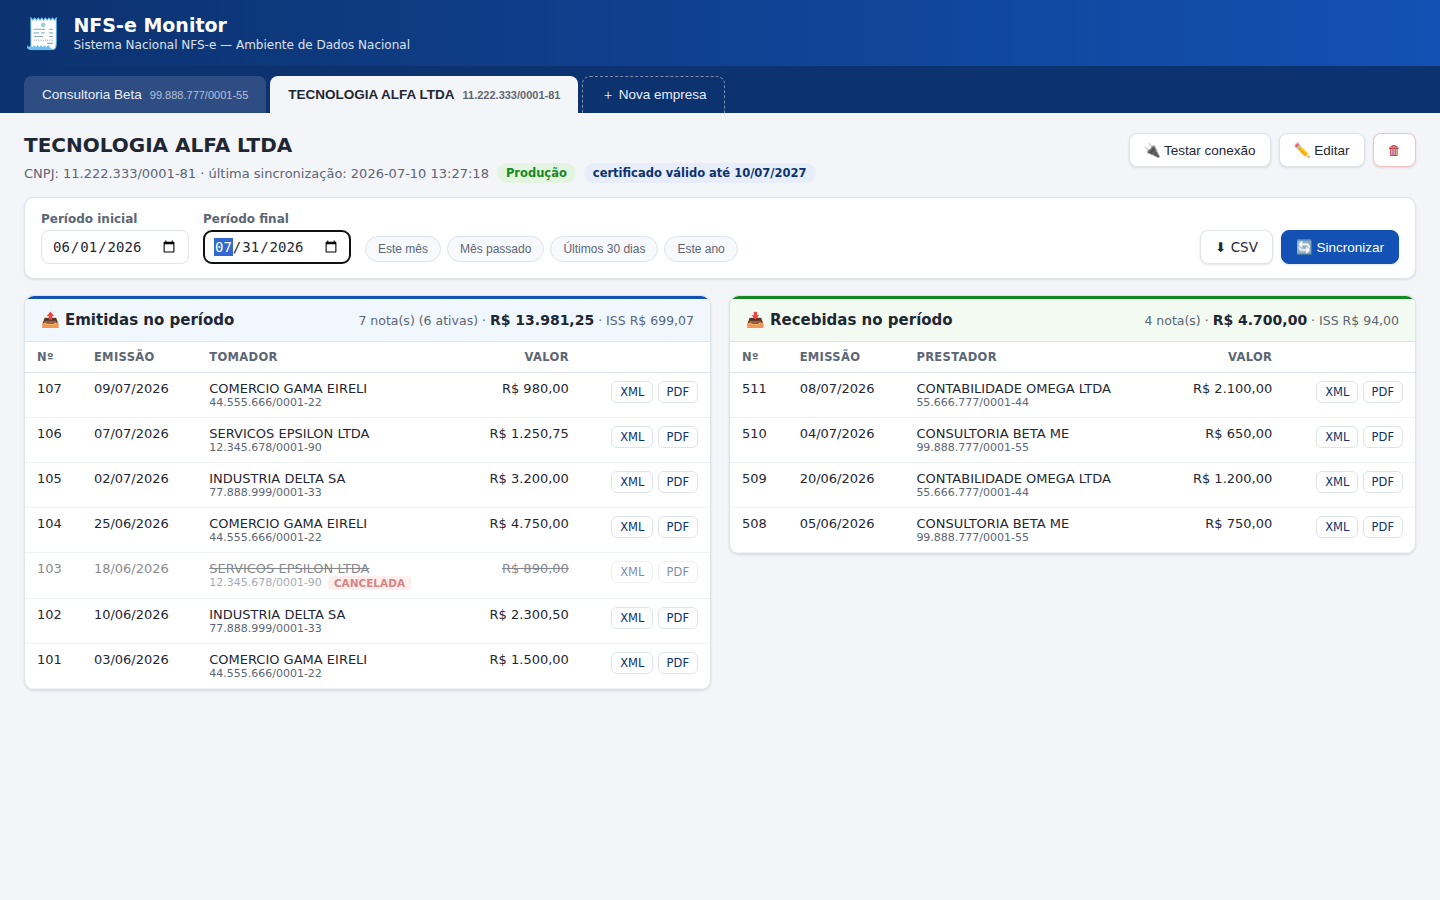
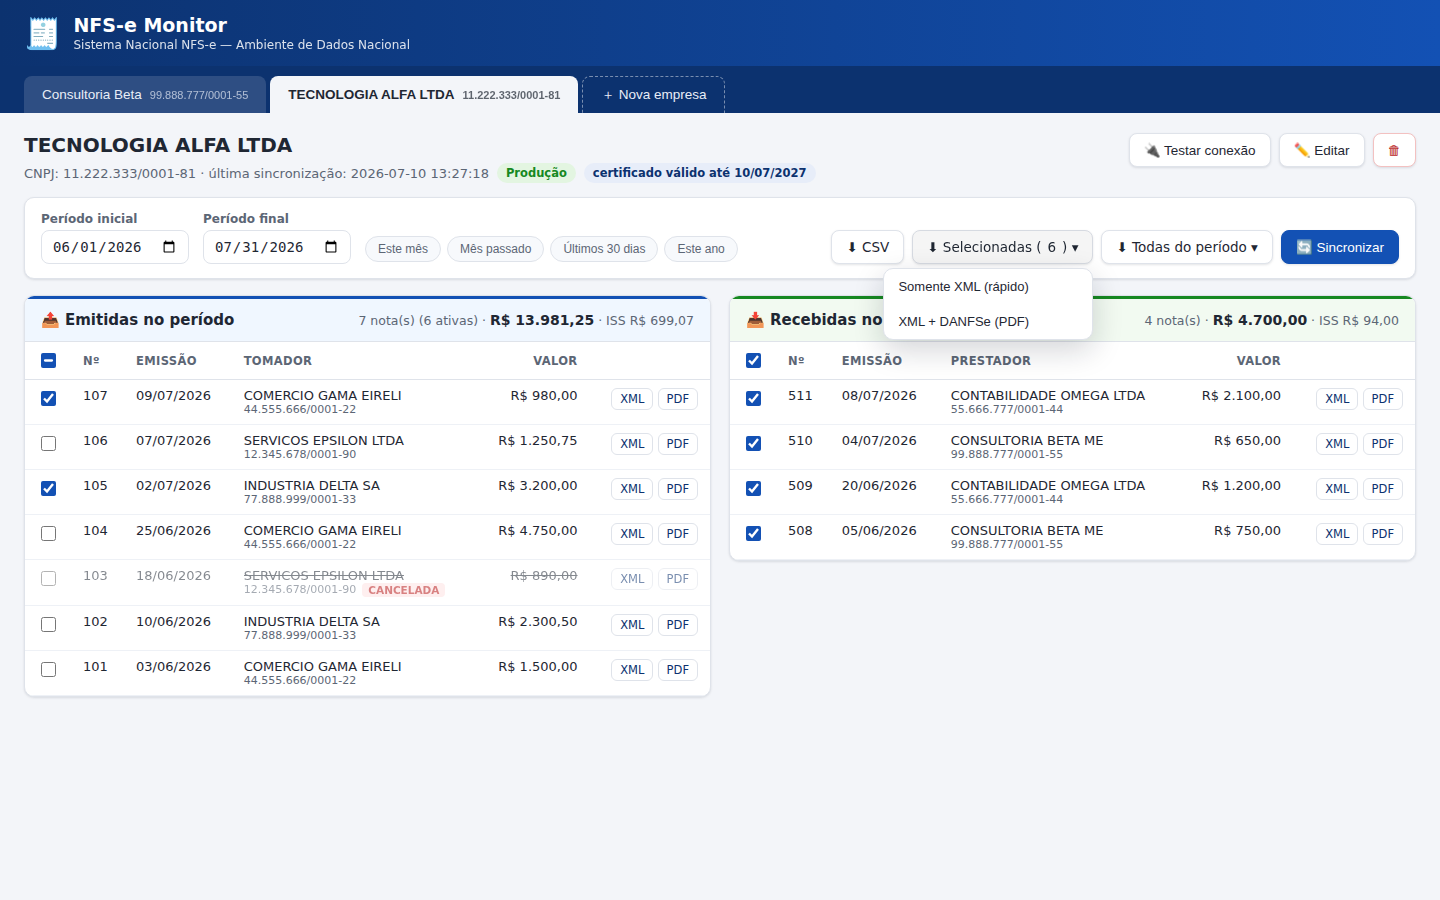
Adiciona seleção de notas e download em lote (ZIP)
- Caixas de seleção por nota e por coluna (com estado parcial no cabeçalho)
- Botão "Selecionadas (n)" e botão "Todas do período", cada um com opção
  de baixar somente XML ou XML + DANFSe (PDF)
- Novo endpoint POST /api/empresas/{id}/notas/download que gera ZIP
  organizado em pastas Emitidas/Recebidas; DANFSes com cache local e
  falhas individuais relatadas em AVISOS.txt sem abortar o lote
- Cobertura no teste e2e (ZIP por chaves e por período, XML e XML+PDF)

Claude-Session: https://claude.ai/code/session_01U5JoGidbCUZph5nUjprQZ1

diff --git a/static/app.js b/static/app.js
@@ -6,6 +6,7 @@ let empresaAtual = null;
 let notasCache = { emitidas: [], recebidas: [] };
 let pollTimer = null;
 let editando = false;
+const selecionadas = new Set(); // chaves de acesso marcadas nas duas colunas
 
 const $ = (id) => document.getElementById(id);
 const fmtBRL = new Intl.NumberFormat("pt-BR", { style: "currency", currency: "BRL" });
@@ -145,8 +146,10 @@ async function carregarNotas() {
   try {
     const dados = await api(`/api/empresas/${emp.id}/notas?inicio=${ini}&fim=${fim}`);
     notasCache = dados;
+    selecionadas.clear();
     renderColuna("emitidas", dados.emitidas, dados.totais.emitidas);
     renderColuna("recebidas", dados.recebidas, dados.totais.recebidas);
+    atualizarSelecao();
   } catch (e) {
     toast(e.message, "erro");
   }
@@ -173,6 +176,8 @@ function renderColuna(qual, notas, totais) {
     if (n.papel === "intermediada") tag += ' <span class="tag-situacao tag-intermediada">INTERMEDIADA</span>';
     if (n.situacao !== "ATIVA") tr.className = "nota-cancelada";
     tr.innerHTML =
+      `<td class="td-sel"><input type="checkbox" class="sel-nota" data-coluna="${qual}" data-chave="${esc(n.chave_acesso)}"` +
+      `${selecionadas.has(n.chave_acesso) ? " checked" : ""} onclick="event.stopPropagation()" onchange="marcarNota(this)"></td>` +
       `<td>${esc(n.numero || "—")}</td>` +
       `<td>${dataBR(n.data_emissao)}</td>` +
       `<td class="td-contraparte"><span class="contraparte-nome">${esc(contraNome)}</span>` +
@@ -219,6 +224,74 @@ async function abrirDetalheNota(n) {
     `<a class="btn" href="/api/empresas/${emp.id}/notas/${n.chave_acesso}/danfse" target="_blank">⬇ DANFSe (PDF)</a>` +
     "</div>";
   $("modal-nota").classList.remove("oculto");
+}
+
+/* ------------------------------------------------ seleção e download em lote */
+
+function marcarNota(caixa) {
+  if (caixa.checked) selecionadas.add(caixa.dataset.chave);
+  else selecionadas.delete(caixa.dataset.chave);
+  atualizarSelecao();
+}
+
+function selecionarColuna(qual, marcado) {
+  document.querySelectorAll(`#lista-${qual} .sel-nota`).forEach((c) => {
+    c.checked = marcado;
+    if (marcado) selecionadas.add(c.dataset.chave);
+    else selecionadas.delete(c.dataset.chave);
+  });
+  atualizarSelecao();
+}
+
+function atualizarSelecao() {
+  $("qtd-selecionadas").textContent = selecionadas.size;
+  $("dd-selecionadas").classList.toggle("desabilitado", selecionadas.size === 0);
+  for (const qual of ["emitidas", "recebidas"]) {
+    const caixas = [...document.querySelectorAll(`#lista-${qual} .sel-nota`)];
+    const geral = $(`sel-todas-${qual}`);
+    geral.checked = caixas.length > 0 && caixas.every((c) => c.checked);
+    geral.indeterminate = caixas.some((c) => c.checked) && !geral.checked;
+  }
+}
+
+async function baixarLote(escopo, formato) {
+  document.querySelectorAll("details.dropdown").forEach((d) => (d.open = false));
+  const emp = empresa();
+  if (!emp) return;
+  const corpo = { formato };
+  if (escopo === "selecionadas") {
+    if (selecionadas.size === 0) return toast("Marque ao menos uma nota nas caixas de seleção.", "erro");
+    corpo.chaves = [...selecionadas];
+  } else {
+    corpo.inicio = $("data-inicio").value;
+    corpo.fim = $("data-fim").value;
+  }
+  toast(formato === "xml_pdf"
+    ? "Preparando ZIP (baixando DANFSes do Portal Nacional, aguarde)..."
+    : "Preparando arquivo ZIP...");
+  try {
+    const resp = await fetch(`/api/empresas/${emp.id}/notas/download`, {
+      method: "POST",
+      headers: { "Content-Type": "application/json" },
+      body: JSON.stringify(corpo),
+    });
+    if (!resp.ok) {
+      let detalhe = `Erro ${resp.status}`;
+      try { detalhe = (await resp.json()).detail || detalhe; } catch (_) {}
+      throw new Error(detalhe);
+    }
+    const nome = (resp.headers.get("Content-Disposition") || "").match(/filename="?([^";]+)/)?.[1]
+      || "notas.zip";
+    const blob = await resp.blob();
+    const a = document.createElement("a");
+    a.href = URL.createObjectURL(blob);
+    a.download = nome;
+    a.click();
+    setTimeout(() => URL.revokeObjectURL(a.href), 10000);
+    toast(`ZIP gerado: ${nome}`, "ok");
+  } catch (e) {
+    toast(e.message, "erro");
+  }
 }
 
 /* ------------------------------------------------ sincronização */
@@ -385,6 +458,11 @@ function fecharModais() {
 }
 
 document.addEventListener("keydown", (e) => { if (e.key === "Escape") fecharModais(); });
+document.addEventListener("click", (e) => {
+  document.querySelectorAll("details.dropdown[open]").forEach((d) => {
+    if (!d.contains(e.target)) d.open = false;
+  });
+});
 document.querySelectorAll(".modal-fundo").forEach((m) =>
   m.addEventListener("click", (e) => { if (e.target === m) fecharModais(); })
 );

diff --git a/static/index.html b/static/index.html
@@ -65,6 +65,20 @@
       </div>
       <div class="filtro-acoes">
         <a class="btn" id="btn-csv" href="#" title="Exportar o período para CSV (Excel)">⬇ CSV</a>
+        <details class="dropdown" id="dd-selecionadas">
+          <summary class="btn" title="Baixa as notas marcadas nas caixas de seleção">⬇ Selecionadas (<span id="qtd-selecionadas">0</span>) ▾</summary>
+          <div class="menu">
+            <button onclick="baixarLote('selecionadas','xml')">Somente XML (rápido)</button>
+            <button onclick="baixarLote('selecionadas','xml_pdf')">XML + DANFSe (PDF)</button>
+          </div>
+        </details>
+        <details class="dropdown" id="dd-todas">
+          <summary class="btn" title="Baixa todas as notas do período filtrado">⬇ Todas do período ▾</summary>
+          <div class="menu">
+            <button onclick="baixarLote('todas','xml')">Somente XML (rápido)</button>
+            <button onclick="baixarLote('todas','xml_pdf')">XML + DANFSe (PDF)</button>
+          </div>
+        </details>
         <button class="btn btn-primario" id="btn-sync" onclick="sincronizar()">🔄 Sincronizar</button>
       </div>
     </div>
@@ -80,7 +94,8 @@
         <div class="tabela-wrap">
           <table>
             <thead>
-              <tr><th>Nº</th><th>Emissão</th><th>Tomador</th><th class="th-num">Valor</th><th></th></tr>
+              <tr><th class="th-sel"><input type="checkbox" id="sel-todas-emitidas" title="Selecionar todas" onchange="selecionarColuna('emitidas', this.checked)"></th>
+                  <th>Nº</th><th>Emissão</th><th>Tomador</th><th class="th-num">Valor</th><th></th></tr>
             </thead>
             <tbody id="lista-emitidas"></tbody>
           </table>
@@ -96,7 +111,8 @@
         <div class="tabela-wrap">
           <table>
             <thead>
-              <tr><th>Nº</th><th>Emissão</th><th>Prestador</th><th class="th-num">Valor</th><th></th></tr>
+              <tr><th class="th-sel"><input type="checkbox" id="sel-todas-recebidas" title="Selecionar todas" onchange="selecionarColuna('recebidas', this.checked)"></th>
+                  <th>Nº</th><th>Emissão</th><th>Prestador</th><th class="th-num">Valor</th><th></th></tr>
             </thead>
             <tbody id="lista-recebidas"></tbody>
           </table>

diff --git a/static/style.css b/static/style.css
@@ -128,7 +128,28 @@ main { padding: 20px 24px 40px; max-width: 1500px; margin: 0 auto; }
   padding: 5px 12px; font-size: 12px; cursor: pointer; color: var(--texto-suave);
 }
 .chip:hover { background: #eceff5; }
-.filtro-acoes { display: flex; gap: 8px; }
+.filtro-acoes { display: flex; gap: 8px; align-items: center; flex-wrap: wrap; }
+
+/* dropdown de download em lote */
+.dropdown { position: relative; }
+.dropdown summary { list-style: none; user-select: none; }
+.dropdown summary::-webkit-details-marker { display: none; }
+.dropdown .menu {
+  position: absolute; right: 0; top: calc(100% + 4px); z-index: 20;
+  background: #fff; border: 1px solid var(--borda); border-radius: 10px;
+  box-shadow: 0 10px 30px rgba(16, 24, 40, .18);
+  min-width: 210px; overflow: hidden;
+}
+.dropdown .menu button {
+  display: block; width: 100%; text-align: left; border: none; background: none;
+  padding: 10px 14px; font-size: 13px; cursor: pointer; color: var(--texto);
+}
+.dropdown .menu button:hover { background: #eef2fa; }
+.dropdown.desabilitado { opacity: .55; pointer-events: none; }
+
+/* seleção de notas */
+.th-sel, .td-sel { width: 30px; text-align: center; }
+.sel-nota, .th-sel input { cursor: pointer; width: 15px; height: 15px; accent-color: var(--azul); }
 
 /* ---------- status da sincronização ---------- */
 .sync-status {

diff --git a/app/main.py b/app/main.py
@@ -9,13 +9,16 @@ import csv
 import datetime as dt
 import gzip
 import io
+import re
 import uuid
+import zipfile
 from contextlib import asynccontextmanager
 from pathlib import Path
 
 from fastapi import FastAPI, File, Form, HTTPException, UploadFile
 from fastapi.responses import FileResponse, JSONResponse, Response
 from fastapi.staticfiles import StaticFiles
+from pydantic import BaseModel
 
 from . import config, db, security
 from .adn_client import AdnClient, AdnErro
@@ -214,11 +217,8 @@ def excluir_empresa(empresa_id: int):
 @app.post("/api/empresas/{empresa_id}/testar")
 def testar_conexao(empresa_id: int):
     empresa = _empresa_ou_404(empresa_id)
-    pfx_bytes = (config.CERT_DIR / empresa["cert_arquivo"]).read_bytes()
-    senha = security.descriptografar(empresa["senha_cripto"])
     try:
-        ctx = criar_ssl_context(pfx_bytes, senha)
-        with AdnClient(empresa["ambiente"], ctx) as cliente:
+        with _criar_cliente(empresa) as cliente:
             mensagem = cliente.testar_conexao(int(empresa["ultimo_nsu"] or 0))
     except (AdnErro, CertificadoInvalido) as exc:
         raise HTTPException(502, str(exc)) from exc
@@ -370,25 +370,108 @@ def baixar_xml(empresa_id: int, chave: str):
     )
 
 
+def _criar_cliente(empresa) -> AdnClient:
+    pfx_bytes = (config.CERT_DIR / empresa["cert_arquivo"]).read_bytes()
+    senha = security.descriptografar(empresa["senha_cripto"])
+    ctx = criar_ssl_context(pfx_bytes, senha)
+    return AdnClient(empresa["ambiente"], ctx)
+
+
+def _obter_danfse_bytes(empresa, chave: str, cliente: AdnClient | None = None) -> bytes:
+    """PDF da nota, com cache local em ``data/danfse``."""
+    cache = config.DANFSE_CACHE_DIR / f"{chave}.pdf"
+    if cache.exists():
+        return cache.read_bytes()
+    if cliente is None:
+        with _criar_cliente(empresa) as novo:
+            pdf = novo.baixar_danfse(chave)
+    else:
+        pdf = cliente.baixar_danfse(chave)
+    cache.write_bytes(pdf)
+    return pdf
+
+
 @app.get("/api/empresas/{empresa_id}/notas/{chave}/danfse")
 def baixar_danfse(empresa_id: int, chave: str):
     empresa = _empresa_ou_404(empresa_id)
     _nota_ou_404(empresa_id, chave)
-    cache = config.DANFSE_CACHE_DIR / f"{chave}.pdf"
-    if not cache.exists():
-        pfx_bytes = (config.CERT_DIR / empresa["cert_arquivo"]).read_bytes()
-        senha = security.descriptografar(empresa["senha_cripto"])
-        try:
-            ctx = criar_ssl_context(pfx_bytes, senha)
-            with AdnClient(empresa["ambiente"], ctx) as cliente:
-                pdf = cliente.baixar_danfse(chave)
-        except (AdnErro, CertificadoInvalido) as exc:
-            raise HTTPException(502, str(exc)) from exc
-        cache.write_bytes(pdf)
-    return FileResponse(
-        cache,
+    try:
+        pdf = _obter_danfse_bytes(empresa, chave)
+    except (AdnErro, CertificadoInvalido) as exc:
+        raise HTTPException(502, str(exc)) from exc
+    return Response(
+        content=pdf,
         media_type="application/pdf",
-        filename=f"DANFSe_{chave}.pdf",
+        headers={"Content-Disposition": f'attachment; filename="DANFSe_{chave}.pdf"'},
+    )
+
+
+class DownloadLote(BaseModel):
+    chaves: list[str] | None = None   # notas selecionadas; ausente = usar período
+    inicio: str = ""
+    fim: str = ""
+    formato: str = "xml"              # "xml" | "xml_pdf"
+
+
+_PASTAS_PAPEL = {"emitida": "Emitidas", "recebida": "Recebidas", "intermediada": "Intermediadas"}
+
+
+@app.post("/api/empresas/{empresa_id}/notas/download")
+def baixar_lote(empresa_id: int, pedido: DownloadLote):
+    empresa = _empresa_ou_404(empresa_id)
+    if pedido.formato not in ("xml", "xml_pdf"):
+        raise HTTPException(400, "Formato inválido.")
+
+    if pedido.chaves:
+        chaves = [c for c in pedido.chaves if re.fullmatch(r"[0-9A-Za-z]+", c)]
+        notas = []
+        with db.conexao() as con:
+            for i in range(0, len(chaves), 500):
+                parte = chaves[i:i + 500]
+                marcadores = ",".join("?" * len(parte))
+                notas += con.execute(
+                    f"SELECT * FROM notas WHERE empresa_id = ? AND chave_acesso IN ({marcadores})",
+                    (empresa_id, *parte),
+                ).fetchall()
+        rotulo = f"selecionadas_{len(notas)}"
+    else:
+        notas = _consultar_notas(empresa_id, pedido.inicio, pedido.fim)
+        rotulo = f"{pedido.inicio or 'inicio'}_a_{pedido.fim or 'fim'}"
+    if not notas:
+        raise HTTPException(404, "Nenhuma nota encontrada para baixar.")
+
+    avisos: list[str] = []
+    buffer = io.BytesIO()
+    cliente = None
+    try:
+        if pedido.formato == "xml_pdf":
+            cliente = _criar_cliente(empresa)
+        with zipfile.ZipFile(buffer, "w", zipfile.ZIP_DEFLATED) as zf:
+            for nota in notas:
+                pasta = _PASTAS_PAPEL.get(nota["papel"], "Outras")
+                nome = f"NFSe_{nota['numero'] or 'sn'}_{nota['chave_acesso']}"
+                zf.writestr(f"{pasta}/{nome}.xml", gzip.decompress(nota["xml_gzip"]))
+                if pedido.formato == "xml_pdf":
+                    try:
+                        pdf = _obter_danfse_bytes(empresa, nota["chave_acesso"], cliente)
+                        zf.writestr(f"{pasta}/{nome}.pdf", pdf)
+                    except (AdnErro, CertificadoInvalido) as exc:
+                        avisos.append(f"Nota {nota['numero']} ({nota['chave_acesso']}): DANFSe indisponível — {exc}")
+            if avisos:
+                zf.writestr(
+                    "AVISOS.txt",
+                    "Os XMLs abaixo foram incluídos, mas o PDF (DANFSe) não pôde ser baixado:\r\n\r\n"
+                    + "\r\n".join(avisos),
+                )
+    finally:
+        if cliente is not None:
+            cliente.fechar()
+
+    nome_zip = f"NFSe_{empresa['cnpj']}_{rotulo}.zip"
+    return Response(
+        content=buffer.getvalue(),
+        media_type="application/zip",
+        headers={"Content-Disposition": f'attachment; filename="{nome_zip}"'},
     )
 
 

diff --git a/tests/e2e.py b/tests/e2e.py
@@ -129,6 +129,41 @@ def main() -> int:
         assert status == 200 and "Chave de Acesso" in csv_.decode("utf-8-sig")[:200]
         print("✔ downloads XML / DANFSe / CSV")
 
+        # download em lote (ZIP)
+        import io as _io
+        import urllib.request as _ur
+        import zipfile as _zip
+
+        def zip_lote(corpo):
+            pedido = _ur.Request(
+                f"{base}/api/empresas/{eid}/notas/download",
+                data=json.dumps(corpo).encode(),
+                method="POST",
+                headers={"Content-Type": "application/json"},
+            )
+            with _ur.urlopen(pedido, timeout=60) as resp:
+                assert resp.headers["Content-Type"] == "application/zip"
+                return _zip.ZipFile(_io.BytesIO(resp.read()))
+
+        # selecionadas: 1 emitida + 1 recebida, somente XML
+        escolhidas = [jul["emitidas"][0]["chave_acesso"], jul["recebidas"][0]["chave_acesso"]]
+        zf = zip_lote({"chaves": escolhidas, "formato": "xml"})
+        nomes = zf.namelist()
+        assert len(nomes) == 2, nomes
+        assert any(n.startswith("Emitidas/") for n in nomes), nomes
+        assert any(n.startswith("Recebidas/") for n in nomes), nomes
+        assert zf.read(nomes[0]).lstrip().startswith(b"<?xml")
+        print("✔ ZIP das notas selecionadas (XML)")
+
+        # todas do período, XML + DANFSe
+        zf = zip_lote({"inicio": "2026-07-01", "fim": "2026-07-31", "formato": "xml_pdf"})
+        nomes = zf.namelist()
+        xmls = [n for n in nomes if n.endswith(".xml")]
+        pdfs = [n for n in nomes if n.endswith(".pdf")]
+        assert len(xmls) == 5 and len(pdfs) == 5, nomes  # 3 emitidas + 2 recebidas
+        assert zf.read(pdfs[0])[:4] == b"%PDF"
+        print("✔ ZIP de todas do período (XML + DANFSe)")
+
         # idempotência
         req("POST", f"{base}/api/empresas/{eid}/sincronizar")
         for _ in range(60):

diff --git a/README.md b/README.md
@@ -27,6 +27,10 @@ período escolhido (data inicial → data final), o painel mostra duas colunas:
   situação das notas (etiquetas *CANCELADA* / *SUBSTITUÍDA*);
 - **Downloads**: XML da NFS-e, **DANFSe (PDF)** via API nacional e exportação
   **CSV** do período (abre no Excel);
+- **Download em lote (ZIP)**: marque notas nas caixas de seleção e use
+  **⬇ Selecionadas**, ou baixe **⬇ Todas do período** — em ambos, escolha
+  *Somente XML* ou *XML + DANFSe (PDF)*. O ZIP vem organizado nas pastas
+  `Emitidas/` e `Recebidas/`;
 - Alerta de **vencimento do certificado** (30 dias) e teste de conexão mTLS;
 - Tudo fica **no seu computador**: banco SQLite local, senha do certificado
   criptografada (chave local em `data/.chave_secreta`).
